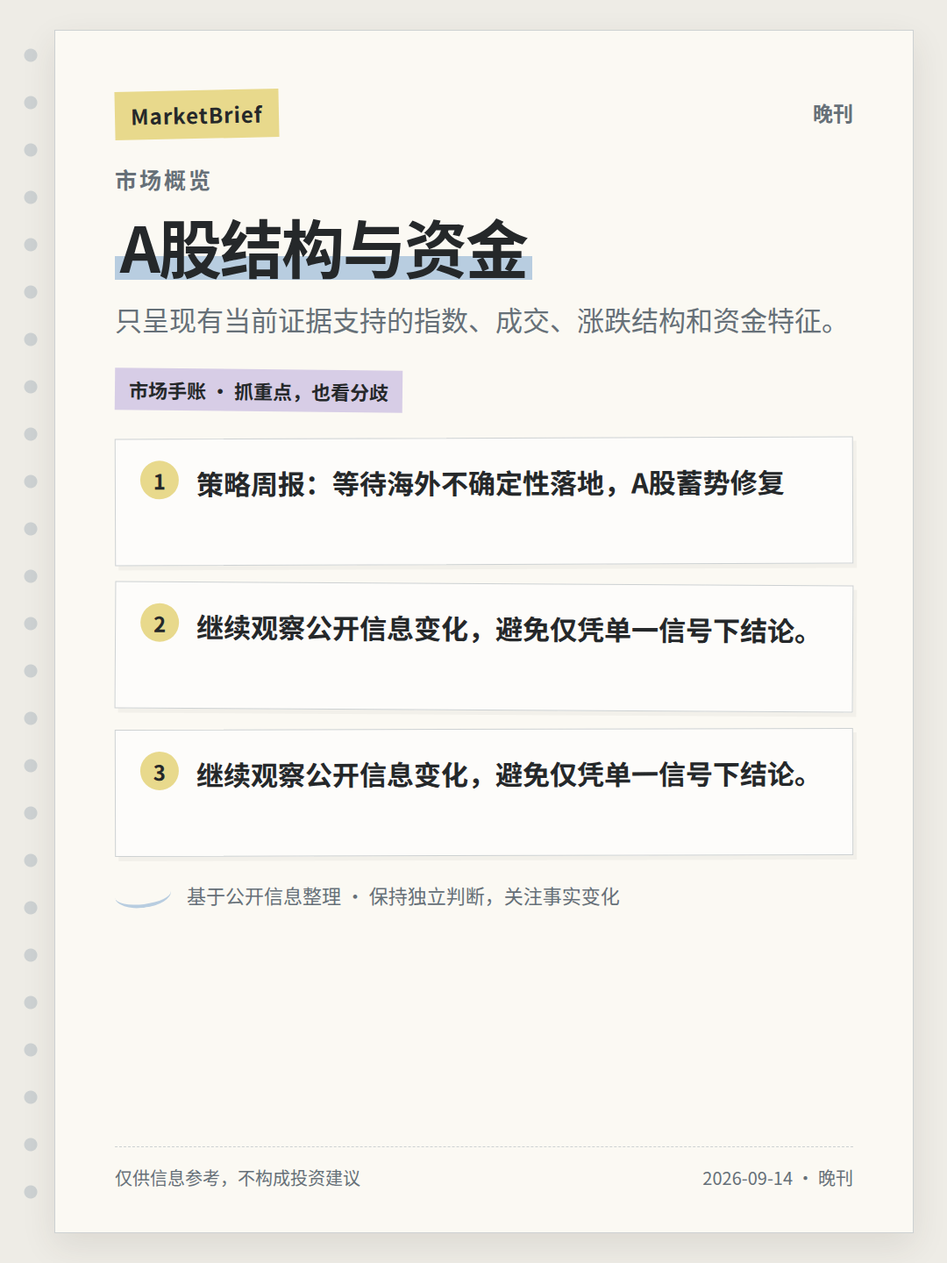
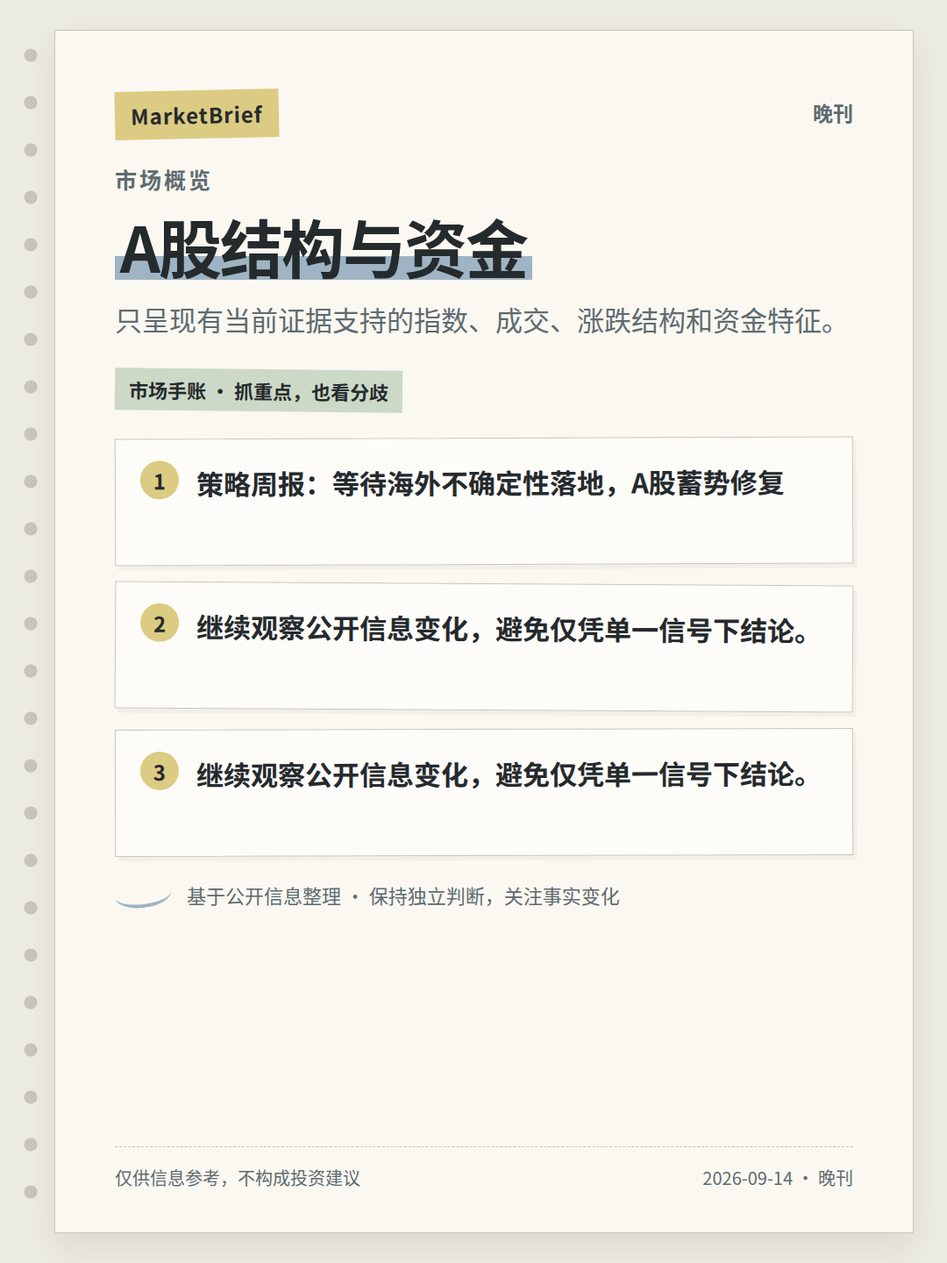
MarketBrief: publish official-source notebook edition

Changed region(s): [[0.1222, 0.2812, 0.4278, 0.3438], [0.1222, 0.1875, 0.5806, 0.2188]]

diff --git a/output/marketbrief/2026-09-14/pm/2026-09-14-pm-01.html b/output/marketbrief/2026-09-14/pm/2026-09-14-pm-01.html
@@ -1,33 +1,33 @@
 <!doctype html>
 <html lang="zh-CN"><head><meta charset="utf-8"><style>
-*{box-sizing:border-box}html,body{margin:0;width:1080px;height:1440px;background:#EEECE6;color:#25282A;font-family:'Noto Sans CJK SC','Microsoft YaHei',sans-serif}
-body:before{content:'';position:absolute;left:24px;top:36px;bottom:36px;width:22px;background:radial-gradient(circle,#CDD1D2 0 7px,transparent 8px) center top/22px 54px repeat-y}
-main{position:relative;margin:34px 38px 34px 62px;width:980px;height:1372px;padding:68px 68px 52px;background:#FBF9F3;border:1px solid #CDD1D2;box-shadow:0 14px 36px rgba(58,47,39,.10);overflow:hidden}
+*{box-sizing:border-box}html,body{margin:0;width:1080px;height:1440px;background:#ECEBE4;color:#252A2D;font-family:'Noto Sans CJK SC','Microsoft YaHei',sans-serif}
+body:before{content:'';position:absolute;left:24px;top:36px;bottom:36px;width:22px;background:radial-gradient(circle,#C8C6BC 0 7px,transparent 8px) center top/22px 54px repeat-y}
+main{position:relative;margin:34px 38px 34px 62px;width:980px;height:1372px;padding:68px 68px 52px;background:#FAF8F1;border:1px solid #C8C6BC;box-shadow:0 14px 36px rgba(58,47,39,.10);overflow:hidden}
 main:after{content:none}
 .top{position:relative;z-index:1;display:flex;justify-content:space-between;align-items:flex-start;margin-bottom:28px}
-.tape{display:inline-block;padding:10px 18px;background:#E8D98C;transform:rotate(-1.2deg);font-size:24px;font-weight:800;letter-spacing:1px}
-.edition{font-size:23px;font-weight:700;color:#667078;padding-top:8px}
-.kicker{position:relative;z-index:1;font-size:25px;font-weight:800;letter-spacing:3px;color:#667078;margin-bottom:18px}
+.tape{display:inline-block;padding:10px 18px;background:#DCCB82;transform:rotate(-1.2deg);font-size:24px;font-weight:800;letter-spacing:1px}
+.edition{font-size:23px;font-weight:700;color:#5E6B70;padding-top:8px}
+.kicker{position:relative;z-index:1;font-size:25px;font-weight:800;letter-spacing:3px;color:#5E6B70;margin-bottom:18px}
 h1{position:relative;z-index:1;font-size:72px;line-height:1.12;margin:0 0 20px;font-weight:900;letter-spacing:-2px}
-h1 span{background:linear-gradient(transparent 62%,#B8CDE0 62% 88%,transparent 88%);padding:0 .08em}
-.sub{position:relative;z-index:1;font-size:31px;line-height:1.5;color:#667078;margin-bottom:34px;max-width:850px}
-.ribbon{position:relative;z-index:1;display:inline-block;padding:8px 16px;margin-bottom:30px;background:#D7CDE6;font-size:22px;font-weight:700;transform:rotate(.6deg)}
+h1 span{background:linear-gradient(transparent 62%,#9EB4C4 62% 88%,transparent 88%);padding:0 .08em}
+.sub{position:relative;z-index:1;font-size:31px;line-height:1.5;color:#5E6B70;margin-bottom:34px;max-width:850px}
+.ribbon{position:relative;z-index:1;display:inline-block;padding:8px 16px;margin-bottom:30px;background:#CBD9C6;font-size:22px;font-weight:700;transform:rotate(.6deg)}
 .notes{position:relative;z-index:1;display:grid;gap:21px}
-.note{position:relative;min-height:145px;padding:26px 30px 24px 92px;background:rgba(255,255,255,.56);border:1px solid #CDD1D2;box-shadow:4px 5px 0 rgba(0,0,0,.035);transform:rotate(-.2deg)}
+.note{position:relative;min-height:145px;padding:26px 30px 24px 92px;background:rgba(255,255,255,.56);border:1px solid #C8C6BC;box-shadow:4px 5px 0 rgba(0,0,0,.035);transform:rotate(-.2deg)}
 .note:nth-child(2){transform:rotate(.35deg)}.note:nth-child(3){transform:rotate(-.15deg)}
-.note b{position:absolute;left:28px;top:24px;width:44px;height:44px;border-radius:50%;display:grid;place-items:center;background:#E8D98C;font-size:24px}
+.note b{position:absolute;left:28px;top:24px;width:44px;height:44px;border-radius:50%;display:grid;place-items:center;background:#DCCB82;font-size:24px}
 .note p{margin:0;font-size:31px;line-height:1.55;font-weight:650}
-.margin{position:relative;z-index:1;margin-top:28px;display:flex;gap:18px;align-items:center;color:#667078;font-size:22px}
-.sketch{width:64px;height:30px;border-bottom:4px solid #B8CDE0;border-radius:50%;transform:rotate(-7deg)}
-footer{position:absolute;z-index:1;left:68px;right:68px;bottom:48px;border-top:1px dashed #CDD1D2;padding-top:20px;display:flex;justify-content:space-between;gap:20px;color:#667078;font-size:20px}
+.margin{position:relative;z-index:1;margin-top:28px;display:flex;gap:18px;align-items:center;color:#5E6B70;font-size:22px}
+.sketch{width:64px;height:30px;border-bottom:4px solid #9EB4C4;border-radius:50%;transform:rotate(-7deg)}
+footer{position:absolute;z-index:1;left:68px;right:68px;bottom:48px;border-top:1px dashed #C8C6BC;padding-top:20px;display:flex;justify-content:space-between;gap:20px;color:#5E6B70;font-size:20px}
 </style></head>
 <body><main>
 <div class="top"><span class="tape">MarketBrief</span><span class="edition">晚刊</span></div>
 <div class="kicker">今日简报</div>
-<h1><span>下周美联储动向、地缘冲突推升油价成焦点</span></h1>
-<div class="sub">晚刊基于3份有效来源分析，当前重点为下周美联储动向、地缘冲突推升油价。仅保留时效合格的公开信息，事实、研究观点与市场情绪分开呈现。</div>
+<h1><span>下周美联储动向成为市场焦点</span></h1>
+<div class="sub">晚刊基于5份有效来源分析，当前重点为下周美联储动向。仅保留时效合格的公开信息，事实、研究观点与市场情绪分开呈现。</div>
 <div class="ribbon">市场手账 · 抓重点，也看分歧</div>
-<div class="notes"><section class="note"><b>1</b><p>晨会纪要</p></section><section class="note"><b>2</b><p>FICC周报：关注下周美联储动向</p></section><section class="note"><b>3</b><p>大周期行业周报（9月第2周）：地缘冲突推升油价</p></section></div>
+<div class="notes"><section class="note"><b>1</b><p>AI安全争议与Anthropic IPO：Anthropic寻求纳斯达克上市，Amodei呼吁AI减速，引发市场分歧；Cramer质疑减速宣言；华盛顿加速AI监管立法</p></section><section class="note"><b>2</b><p>美伊霍尔木兹海峡紧张与油价：霍尔木兹海峡船只遇袭，沙特关闭绕过海峡的关键管道，特朗普称或保留伊朗石油；油价上涨，油轮基金暴涨3600%</p></section><section class="note"><b>3</b><p>晨会纪要</p></section></div>
 <div class="margin"><span class="sketch"></span><span>基于公开信息整理 · 保持独立判断，关注事实变化</span></div>
 <footer><span>仅供信息参考，不构成投资建议</span><span>2026-09-14 · 晚刊</span></footer>
 </main></body></html>

diff --git a/output/marketbrief/2026-09-14/pm/2026-09-14-pm-06.html b/output/marketbrief/2026-09-14/pm/2026-09-14-pm-06.html
@@ -1,25 +1,25 @@
 <!doctype html>
 <html lang="zh-CN"><head><meta charset="utf-8"><style>
-*{box-sizing:border-box}html,body{margin:0;width:1080px;height:1440px;background:#EEECE6;color:#25282A;font-family:'Noto Sans CJK SC','Microsoft YaHei',sans-serif}
-body:before{content:'';position:absolute;left:24px;top:36px;bottom:36px;width:22px;background:radial-gradient(circle,#CDD1D2 0 7px,transparent 8px) center top/22px 54px repeat-y}
-main{position:relative;margin:34px 38px 34px 62px;width:980px;height:1372px;padding:68px 68px 52px;background:#FBF9F3;border:1px solid #CDD1D2;box-shadow:0 14px 36px rgba(58,47,39,.10);overflow:hidden}
+*{box-sizing:border-box}html,body{margin:0;width:1080px;height:1440px;background:#ECEBE4;color:#252A2D;font-family:'Noto Sans CJK SC','Microsoft YaHei',sans-serif}
+body:before{content:'';position:absolute;left:24px;top:36px;bottom:36px;width:22px;background:radial-gradient(circle,#C8C6BC 0 7px,transparent 8px) center top/22px 54px repeat-y}
+main{position:relative;margin:34px 38px 34px 62px;width:980px;height:1372px;padding:68px 68px 52px;background:#FAF8F1;border:1px solid #C8C6BC;box-shadow:0 14px 36px rgba(58,47,39,.10);overflow:hidden}
 main:after{content:none}
 .top{position:relative;z-index:1;display:flex;justify-content:space-between;align-items:flex-start;margin-bottom:28px}
-.tape{display:inline-block;padding:10px 18px;background:#E8D98C;transform:rotate(-1.2deg);font-size:24px;font-weight:800;letter-spacing:1px}
-.edition{font-size:23px;font-weight:700;color:#667078;padding-top:8px}
-.kicker{position:relative;z-index:1;font-size:25px;font-weight:800;letter-spacing:3px;color:#667078;margin-bottom:18px}
+.tape{display:inline-block;padding:10px 18px;background:#DCCB82;transform:rotate(-1.2deg);font-size:24px;font-weight:800;letter-spacing:1px}
+.edition{font-size:23px;font-weight:700;color:#5E6B70;padding-top:8px}
+.kicker{position:relative;z-index:1;font-size:25px;font-weight:800;letter-spacing:3px;color:#5E6B70;margin-bottom:18px}
 h1{position:relative;z-index:1;font-size:72px;line-height:1.12;margin:0 0 20px;font-weight:900;letter-spacing:-2px}
-h1 span{background:linear-gradient(transparent 62%,#B8CDE0 62% 88%,transparent 88%);padding:0 .08em}
-.sub{position:relative;z-index:1;font-size:31px;line-height:1.5;color:#667078;margin-bottom:34px;max-width:850px}
-.ribbon{position:relative;z-index:1;display:inline-block;padding:8px 16px;margin-bottom:30px;background:#D7CDE6;font-size:22px;font-weight:700;transform:rotate(.6deg)}
+h1 span{background:linear-gradient(transparent 62%,#9EB4C4 62% 88%,transparent 88%);padding:0 .08em}
+.sub{position:relative;z-index:1;font-size:31px;line-height:1.5;color:#5E6B70;margin-bottom:34px;max-width:850px}
+.ribbon{position:relative;z-index:1;display:inline-block;padding:8px 16px;margin-bottom:30px;background:#CBD9C6;font-size:22px;font-weight:700;transform:rotate(.6deg)}
 .notes{position:relative;z-index:1;display:grid;gap:21px}
-.note{position:relative;min-height:145px;padding:26px 30px 24px 92px;background:rgba(255,255,255,.56);border:1px solid #CDD1D2;box-shadow:4px 5px 0 rgba(0,0,0,.035);transform:rotate(-.2deg)}
+.note{position:relative;min-height:145px;padding:26px 30px 24px 92px;background:rgba(255,255,255,.56);border:1px solid #C8C6BC;box-shadow:4px 5px 0 rgba(0,0,0,.035);transform:rotate(-.2deg)}
 .note:nth-child(2){transform:rotate(.35deg)}.note:nth-child(3){transform:rotate(-.15deg)}
-.note b{position:absolute;left:28px;top:24px;width:44px;height:44px;border-radius:50%;display:grid;place-items:center;background:#E8D98C;font-size:24px}
+.note b{position:absolute;left:28px;top:24px;width:44px;height:44px;border-radius:50%;display:grid;place-items:center;background:#DCCB82;font-size:24px}
 .note p{margin:0;font-size:31px;line-height:1.55;font-weight:650}
-.margin{position:relative;z-index:1;margin-top:28px;display:flex;gap:18px;align-items:center;color:#667078;font-size:22px}
-.sketch{width:64px;height:30px;border-bottom:4px solid #B8CDE0;border-radius:50%;transform:rotate(-7deg)}
-footer{position:absolute;z-index:1;left:68px;right:68px;bottom:48px;border-top:1px dashed #CDD1D2;padding-top:20px;display:flex;justify-content:space-between;gap:20px;color:#667078;font-size:20px}
+.margin{position:relative;z-index:1;margin-top:28px;display:flex;gap:18px;align-items:center;color:#5E6B70;font-size:22px}
+.sketch{width:64px;height:30px;border-bottom:4px solid #9EB4C4;border-radius:50%;transform:rotate(-7deg)}
+footer{position:absolute;z-index:1;left:68px;right:68px;bottom:48px;border-top:1px dashed #C8C6BC;padding-top:20px;display:flex;justify-content:space-between;gap:20px;color:#5E6B70;font-size:20px}
 </style></head>
 <body><main>
 <div class="top"><span class="tape">MarketBrief</span><span class="edition">晚刊</span></div>
@@ -27,7 +27,7 @@ footer{position:absolute;z-index:1;left:68px;right:68px;bottom:48px;border-top:1
 <h1><span>后续变量仍需确认</span></h1>
 <div class="sub">只保留来源自身限制和当前证据中的风险项，不额外推演。</div>
 <div class="ribbon">市场手账 · 抓重点，也看分歧</div>
-<div class="notes"><section class="note"><b>1</b><p>大周期行业周报（9月第2周）：地缘冲突推升油价</p></section><section class="note"><b>2</b><p>策略周报：等待海外不确定性落地，A股蓄势修复</p></section><section class="note"><b>3</b><p>继续观察公开信息变化，避免仅凭单一信号下结论。</p></section></div>
+<div class="notes"><section class="note"><b>1</b><p>页面为CNBC全球频道导航页，含部分无明确日期的滚动条目（如UBS CEO、瑞典选举等），已排除未纳入topics</p></section><section class="note"><b>2</b><p>来源类型为research，但页面实质为新闻聚合导航页，非深度研究报告，信号强度有限</p></section><section class="note"><b>3</b><p>部分条目标注&#x27;36 min ago&#x27;与&#x27;2 Hours Ago&#x27;存在时间戳不一致，以页面最新时间为准</p></section></div>
 <div class="margin"><span class="sketch"></span><span>基于公开信息整理 · 保持独立判断，关注事实变化</span></div>
 <footer><span>仅供信息参考，不构成投资建议</span><span>2026-09-14 · 晚刊</span></footer>
 </main></body></html>

diff --git a/output/marketbrief/2026-09-14/pm/2026-09-14-pm-05.html b/output/marketbrief/2026-09-14/pm/2026-09-14-pm-05.html
@@ -1,25 +1,25 @@
 <!doctype html>
 <html lang="zh-CN"><head><meta charset="utf-8"><style>
-*{box-sizing:border-box}html,body{margin:0;width:1080px;height:1440px;background:#EEECE6;color:#25282A;font-family:'Noto Sans CJK SC','Microsoft YaHei',sans-serif}
-body:before{content:'';position:absolute;left:24px;top:36px;bottom:36px;width:22px;background:radial-gradient(circle,#CDD1D2 0 7px,transparent 8px) center top/22px 54px repeat-y}
-main{position:relative;margin:34px 38px 34px 62px;width:980px;height:1372px;padding:68px 68px 52px;background:#FBF9F3;border:1px solid #CDD1D2;box-shadow:0 14px 36px rgba(58,47,39,.10);overflow:hidden}
+*{box-sizing:border-box}html,body{margin:0;width:1080px;height:1440px;background:#ECEBE4;color:#252A2D;font-family:'Noto Sans CJK SC','Microsoft YaHei',sans-serif}
+body:before{content:'';position:absolute;left:24px;top:36px;bottom:36px;width:22px;background:radial-gradient(circle,#C8C6BC 0 7px,transparent 8px) center top/22px 54px repeat-y}
+main{position:relative;margin:34px 38px 34px 62px;width:980px;height:1372px;padding:68px 68px 52px;background:#FAF8F1;border:1px solid #C8C6BC;box-shadow:0 14px 36px rgba(58,47,39,.10);overflow:hidden}
 main:after{content:none}
 .top{position:relative;z-index:1;display:flex;justify-content:space-between;align-items:flex-start;margin-bottom:28px}
-.tape{display:inline-block;padding:10px 18px;background:#E8D98C;transform:rotate(-1.2deg);font-size:24px;font-weight:800;letter-spacing:1px}
-.edition{font-size:23px;font-weight:700;color:#667078;padding-top:8px}
-.kicker{position:relative;z-index:1;font-size:25px;font-weight:800;letter-spacing:3px;color:#667078;margin-bottom:18px}
+.tape{display:inline-block;padding:10px 18px;background:#DCCB82;transform:rotate(-1.2deg);font-size:24px;font-weight:800;letter-spacing:1px}
+.edition{font-size:23px;font-weight:700;color:#5E6B70;padding-top:8px}
+.kicker{position:relative;z-index:1;font-size:25px;font-weight:800;letter-spacing:3px;color:#5E6B70;margin-bottom:18px}
 h1{position:relative;z-index:1;font-size:72px;line-height:1.12;margin:0 0 20px;font-weight:900;letter-spacing:-2px}
-h1 span{background:linear-gradient(transparent 62%,#B8CDE0 62% 88%,transparent 88%);padding:0 .08em}
-.sub{position:relative;z-index:1;font-size:31px;line-height:1.5;color:#667078;margin-bottom:34px;max-width:850px}
-.ribbon{position:relative;z-index:1;display:inline-block;padding:8px 16px;margin-bottom:30px;background:#D7CDE6;font-size:22px;font-weight:700;transform:rotate(.6deg)}
+h1 span{background:linear-gradient(transparent 62%,#9EB4C4 62% 88%,transparent 88%);padding:0 .08em}
+.sub{position:relative;z-index:1;font-size:31px;line-height:1.5;color:#5E6B70;margin-bottom:34px;max-width:850px}
+.ribbon{position:relative;z-index:1;display:inline-block;padding:8px 16px;margin-bottom:30px;background:#CBD9C6;font-size:22px;font-weight:700;transform:rotate(.6deg)}
 .notes{position:relative;z-index:1;display:grid;gap:21px}
-.note{position:relative;min-height:145px;padding:26px 30px 24px 92px;background:rgba(255,255,255,.56);border:1px solid #CDD1D2;box-shadow:4px 5px 0 rgba(0,0,0,.035);transform:rotate(-.2deg)}
+.note{position:relative;min-height:145px;padding:26px 30px 24px 92px;background:rgba(255,255,255,.56);border:1px solid #C8C6BC;box-shadow:4px 5px 0 rgba(0,0,0,.035);transform:rotate(-.2deg)}
 .note:nth-child(2){transform:rotate(.35deg)}.note:nth-child(3){transform:rotate(-.15deg)}
-.note b{position:absolute;left:28px;top:24px;width:44px;height:44px;border-radius:50%;display:grid;place-items:center;background:#E8D98C;font-size:24px}
+.note b{position:absolute;left:28px;top:24px;width:44px;height:44px;border-radius:50%;display:grid;place-items:center;background:#DCCB82;font-size:24px}
 .note p{margin:0;font-size:31px;line-height:1.55;font-weight:650}
-.margin{position:relative;z-index:1;margin-top:28px;display:flex;gap:18px;align-items:center;color:#667078;font-size:22px}
-.sketch{width:64px;height:30px;border-bottom:4px solid #B8CDE0;border-radius:50%;transform:rotate(-7deg)}
-footer{position:absolute;z-index:1;left:68px;right:68px;bottom:48px;border-top:1px dashed #CDD1D2;padding-top:20px;display:flex;justify-content:space-between;gap:20px;color:#667078;font-size:20px}
+.margin{position:relative;z-index:1;margin-top:28px;display:flex;gap:18px;align-items:center;color:#5E6B70;font-size:22px}
+.sketch{width:64px;height:30px;border-bottom:4px solid #9EB4C4;border-radius:50%;transform:rotate(-7deg)}
+footer{position:absolute;z-index:1;left:68px;right:68px;bottom:48px;border-top:1px dashed #C8C6BC;padding-top:20px;display:flex;justify-content:space-between;gap:20px;color:#5E6B70;font-size:20px}
 </style></head>
 <body><main>
 <div class="top"><span class="tape">MarketBrief</span><span class="edition">晚刊</span></div>
@@ -27,7 +27,7 @@ footer{position:absolute;z-index:1;left:68px;right:68px;bottom:48px;border-top:1
 <h1><span>事实、观点与情绪分开看</span></h1>
 <div class="sub">先看已确认事实，再看研究判断和市场情绪是否一致。</div>
 <div class="ribbon">市场手账 · 抓重点，也看分歧</div>
-<div class="notes"><section class="note"><b>1</b><p>关于刊发境外上市外资股（H 股）发行聆讯后资料集的公告</p></section><section class="note"><b>2</b><p>晨会纪要</p></section><section class="note"><b>3</b><p>继续观察公开信息变化，避免仅凭单一信号下结论。</p></section></div>
+<div class="notes"><section class="note"><b>1</b><p>美国消费者价格指数(CPI)：BLS于09/11发布最新CPI数据，为窗口内最新通胀指标</p></section><section class="note"><b>2</b><p>AI安全争议与Anthropic IPO：Anthropic寻求纳斯达克上市，Amodei呼吁AI减速，引发市场分歧；Cramer质疑减速宣言；华盛顿加速AI监管立法</p></section><section class="note"><b>3</b><p>继续观察公开信息变化，避免仅凭单一信号下结论。</p></section></div>
 <div class="margin"><span class="sketch"></span><span>基于公开信息整理 · 保持独立判断，关注事实变化</span></div>
 <footer><span>仅供信息参考，不构成投资建议</span><span>2026-09-14 · 晚刊</span></footer>
 </main></body></html>

diff --git a/output/marketbrief/2026-09-14/pm/2026-09-14-pm-02.html b/output/marketbrief/2026-09-14/pm/2026-09-14-pm-02.html
@@ -1,25 +1,25 @@
 <!doctype html>
 <html lang="zh-CN"><head><meta charset="utf-8"><style>
-*{box-sizing:border-box}html,body{margin:0;width:1080px;height:1440px;background:#EEECE6;color:#25282A;font-family:'Noto Sans CJK SC','Microsoft YaHei',sans-serif}
-body:before{content:'';position:absolute;left:24px;top:36px;bottom:36px;width:22px;background:radial-gradient(circle,#CDD1D2 0 7px,transparent 8px) center top/22px 54px repeat-y}
-main{position:relative;margin:34px 38px 34px 62px;width:980px;height:1372px;padding:68px 68px 52px;background:#FBF9F3;border:1px solid #CDD1D2;box-shadow:0 14px 36px rgba(58,47,39,.10);overflow:hidden}
+*{box-sizing:border-box}html,body{margin:0;width:1080px;height:1440px;background:#ECEBE4;color:#252A2D;font-family:'Noto Sans CJK SC','Microsoft YaHei',sans-serif}
+body:before{content:'';position:absolute;left:24px;top:36px;bottom:36px;width:22px;background:radial-gradient(circle,#C8C6BC 0 7px,transparent 8px) center top/22px 54px repeat-y}
+main{position:relative;margin:34px 38px 34px 62px;width:980px;height:1372px;padding:68px 68px 52px;background:#FAF8F1;border:1px solid #C8C6BC;box-shadow:0 14px 36px rgba(58,47,39,.10);overflow:hidden}
 main:after{content:none}
 .top{position:relative;z-index:1;display:flex;justify-content:space-between;align-items:flex-start;margin-bottom:28px}
-.tape{display:inline-block;padding:10px 18px;background:#E8D98C;transform:rotate(-1.2deg);font-size:24px;font-weight:800;letter-spacing:1px}
-.edition{font-size:23px;font-weight:700;color:#667078;padding-top:8px}
-.kicker{position:relative;z-index:1;font-size:25px;font-weight:800;letter-spacing:3px;color:#667078;margin-bottom:18px}
+.tape{display:inline-block;padding:10px 18px;background:#DCCB82;transform:rotate(-1.2deg);font-size:24px;font-weight:800;letter-spacing:1px}
+.edition{font-size:23px;font-weight:700;color:#5E6B70;padding-top:8px}
+.kicker{position:relative;z-index:1;font-size:25px;font-weight:800;letter-spacing:3px;color:#5E6B70;margin-bottom:18px}
 h1{position:relative;z-index:1;font-size:72px;line-height:1.12;margin:0 0 20px;font-weight:900;letter-spacing:-2px}
-h1 span{background:linear-gradient(transparent 62%,#B8CDE0 62% 88%,transparent 88%);padding:0 .08em}
-.sub{position:relative;z-index:1;font-size:31px;line-height:1.5;color:#667078;margin-bottom:34px;max-width:850px}
-.ribbon{position:relative;z-index:1;display:inline-block;padding:8px 16px;margin-bottom:30px;background:#D7CDE6;font-size:22px;font-weight:700;transform:rotate(.6deg)}
+h1 span{background:linear-gradient(transparent 62%,#9EB4C4 62% 88%,transparent 88%);padding:0 .08em}
+.sub{position:relative;z-index:1;font-size:31px;line-height:1.5;color:#5E6B70;margin-bottom:34px;max-width:850px}
+.ribbon{position:relative;z-index:1;display:inline-block;padding:8px 16px;margin-bottom:30px;background:#CBD9C6;font-size:22px;font-weight:700;transform:rotate(.6deg)}
 .notes{position:relative;z-index:1;display:grid;gap:21px}
-.note{position:relative;min-height:145px;padding:26px 30px 24px 92px;background:rgba(255,255,255,.56);border:1px solid #CDD1D2;box-shadow:4px 5px 0 rgba(0,0,0,.035);transform:rotate(-.2deg)}
+.note{position:relative;min-height:145px;padding:26px 30px 24px 92px;background:rgba(255,255,255,.56);border:1px solid #C8C6BC;box-shadow:4px 5px 0 rgba(0,0,0,.035);transform:rotate(-.2deg)}
 .note:nth-child(2){transform:rotate(.35deg)}.note:nth-child(3){transform:rotate(-.15deg)}
-.note b{position:absolute;left:28px;top:24px;width:44px;height:44px;border-radius:50%;display:grid;place-items:center;background:#E8D98C;font-size:24px}
+.note b{position:absolute;left:28px;top:24px;width:44px;height:44px;border-radius:50%;display:grid;place-items:center;background:#DCCB82;font-size:24px}
 .note p{margin:0;font-size:31px;line-height:1.55;font-weight:650}
-.margin{position:relative;z-index:1;margin-top:28px;display:flex;gap:18px;align-items:center;color:#667078;font-size:22px}
-.sketch{width:64px;height:30px;border-bottom:4px solid #B8CDE0;border-radius:50%;transform:rotate(-7deg)}
-footer{position:absolute;z-index:1;left:68px;right:68px;bottom:48px;border-top:1px dashed #CDD1D2;padding-top:20px;display:flex;justify-content:space-between;gap:20px;color:#667078;font-size:20px}
+.margin{position:relative;z-index:1;margin-top:28px;display:flex;gap:18px;align-items:center;color:#5E6B70;font-size:22px}
+.sketch{width:64px;height:30px;border-bottom:4px solid #9EB4C4;border-radius:50%;transform:rotate(-7deg)}
+footer{position:absolute;z-index:1;left:68px;right:68px;bottom:48px;border-top:1px dashed #C8C6BC;padding-top:20px;display:flex;justify-content:space-between;gap:20px;color:#5E6B70;font-size:20px}
 </style></head>
 <body><main>
 <div class="top"><span class="tape">MarketBrief</span><span class="edition">晚刊</span></div>
@@ -27,7 +27,7 @@ footer{position:absolute;z-index:1;left:68px;right:68px;bottom:48px;border-top:1
 <h1><span>今晚外部变量</span></h1>
 <div class="sub">只保留当前时效窗口内、已有公开信息支持的海外市场与宏观线索。</div>
 <div class="ribbon">市场手账 · 抓重点，也看分歧</div>
-<div class="notes"><section class="note"><b>1</b><p>FICC周报：关注下周美联储动向</p></section><section class="note"><b>2</b><p>大周期行业周报（9月第2周）：地缘冲突推升油价</p></section><section class="note"><b>3</b><p>8月美国核心CPI环比超预期，9月美联储会议或加息25个基点</p></section></div>
+<div class="notes"><section class="note"><b>1</b><p>美国消费者价格指数(CPI)：BLS于09/11发布最新CPI数据，为窗口内最新通胀指标</p></section><section class="note"><b>2</b><p>美国生产者价格指数(PPI)：BLS于09/10发布最新PPI数据，反映上游成本压力</p></section><section class="note"><b>3</b><p>美国实际收入：BLS于09/11发布实际收入数据，反映工资增长与通胀对比</p></section></div>
 <div class="margin"><span class="sketch"></span><span>基于公开信息整理 · 保持独立判断，关注事实变化</span></div>
 <footer><span>仅供信息参考，不构成投资建议</span><span>2026-09-14 · 晚刊</span></footer>
 </main></body></html>

diff --git a/output/marketbrief/2026-09-14/pm/2026-09-14-pm-04.html b/output/marketbrief/2026-09-14/pm/2026-09-14-pm-04.html
@@ -1,25 +1,25 @@
 <!doctype html>
 <html lang="zh-CN"><head><meta charset="utf-8"><style>
-*{box-sizing:border-box}html,body{margin:0;width:1080px;height:1440px;background:#EEECE6;color:#25282A;font-family:'Noto Sans CJK SC','Microsoft YaHei',sans-serif}
-body:before{content:'';position:absolute;left:24px;top:36px;bottom:36px;width:22px;background:radial-gradient(circle,#CDD1D2 0 7px,transparent 8px) center top/22px 54px repeat-y}
-main{position:relative;margin:34px 38px 34px 62px;width:980px;height:1372px;padding:68px 68px 52px;background:#FBF9F3;border:1px solid #CDD1D2;box-shadow:0 14px 36px rgba(58,47,39,.10);overflow:hidden}
+*{box-sizing:border-box}html,body{margin:0;width:1080px;height:1440px;background:#ECEBE4;color:#252A2D;font-family:'Noto Sans CJK SC','Microsoft YaHei',sans-serif}
+body:before{content:'';position:absolute;left:24px;top:36px;bottom:36px;width:22px;background:radial-gradient(circle,#C8C6BC 0 7px,transparent 8px) center top/22px 54px repeat-y}
+main{position:relative;margin:34px 38px 34px 62px;width:980px;height:1372px;padding:68px 68px 52px;background:#FAF8F1;border:1px solid #C8C6BC;box-shadow:0 14px 36px rgba(58,47,39,.10);overflow:hidden}
 main:after{content:none}
 .top{position:relative;z-index:1;display:flex;justify-content:space-between;align-items:flex-start;margin-bottom:28px}
-.tape{display:inline-block;padding:10px 18px;background:#E8D98C;transform:rotate(-1.2deg);font-size:24px;font-weight:800;letter-spacing:1px}
-.edition{font-size:23px;font-weight:700;color:#667078;padding-top:8px}
-.kicker{position:relative;z-index:1;font-size:25px;font-weight:800;letter-spacing:3px;color:#667078;margin-bottom:18px}
+.tape{display:inline-block;padding:10px 18px;background:#DCCB82;transform:rotate(-1.2deg);font-size:24px;font-weight:800;letter-spacing:1px}
+.edition{font-size:23px;font-weight:700;color:#5E6B70;padding-top:8px}
+.kicker{position:relative;z-index:1;font-size:25px;font-weight:800;letter-spacing:3px;color:#5E6B70;margin-bottom:18px}
 h1{position:relative;z-index:1;font-size:72px;line-height:1.12;margin:0 0 20px;font-weight:900;letter-spacing:-2px}
-h1 span{background:linear-gradient(transparent 62%,#B8CDE0 62% 88%,transparent 88%);padding:0 .08em}
-.sub{position:relative;z-index:1;font-size:31px;line-height:1.5;color:#667078;margin-bottom:34px;max-width:850px}
-.ribbon{position:relative;z-index:1;display:inline-block;padding:8px 16px;margin-bottom:30px;background:#D7CDE6;font-size:22px;font-weight:700;transform:rotate(.6deg)}
+h1 span{background:linear-gradient(transparent 62%,#9EB4C4 62% 88%,transparent 88%);padding:0 .08em}
+.sub{position:relative;z-index:1;font-size:31px;line-height:1.5;color:#5E6B70;margin-bottom:34px;max-width:850px}
+.ribbon{position:relative;z-index:1;display:inline-block;padding:8px 16px;margin-bottom:30px;background:#CBD9C6;font-size:22px;font-weight:700;transform:rotate(.6deg)}
 .notes{position:relative;z-index:1;display:grid;gap:21px}
-.note{position:relative;min-height:145px;padding:26px 30px 24px 92px;background:rgba(255,255,255,.56);border:1px solid #CDD1D2;box-shadow:4px 5px 0 rgba(0,0,0,.035);transform:rotate(-.2deg)}
+.note{position:relative;min-height:145px;padding:26px 30px 24px 92px;background:rgba(255,255,255,.56);border:1px solid #C8C6BC;box-shadow:4px 5px 0 rgba(0,0,0,.035);transform:rotate(-.2deg)}
 .note:nth-child(2){transform:rotate(.35deg)}.note:nth-child(3){transform:rotate(-.15deg)}
-.note b{position:absolute;left:28px;top:24px;width:44px;height:44px;border-radius:50%;display:grid;place-items:center;background:#E8D98C;font-size:24px}
+.note b{position:absolute;left:28px;top:24px;width:44px;height:44px;border-radius:50%;display:grid;place-items:center;background:#DCCB82;font-size:24px}
 .note p{margin:0;font-size:31px;line-height:1.55;font-weight:650}
-.margin{position:relative;z-index:1;margin-top:28px;display:flex;gap:18px;align-items:center;color:#667078;font-size:22px}
-.sketch{width:64px;height:30px;border-bottom:4px solid #B8CDE0;border-radius:50%;transform:rotate(-7deg)}
-footer{position:absolute;z-index:1;left:68px;right:68px;bottom:48px;border-top:1px dashed #CDD1D2;padding-top:20px;display:flex;justify-content:space-between;gap:20px;color:#667078;font-size:20px}
+.margin{position:relative;z-index:1;margin-top:28px;display:flex;gap:18px;align-items:center;color:#5E6B70;font-size:22px}
+.sketch{width:64px;height:30px;border-bottom:4px solid #9EB4C4;border-radius:50%;transform:rotate(-7deg)}
+footer{position:absolute;z-index:1;left:68px;right:68px;bottom:48px;border-top:1px dashed #C8C6BC;padding-top:20px;display:flex;justify-content:space-between;gap:20px;color:#5E6B70;font-size:20px}
 </style></head>
 <body><main>
 <div class="top"><span class="tape">MarketBrief</span><span class="edition">晚刊</span></div>
@@ -27,7 +27,7 @@ footer{position:absolute;z-index:1;left:68px;right:68px;bottom:48px;border-top:1
 <h1><span>主线与事件交叉验证</span></h1>
 <div class="sub">优先采用官方与研究信息，社区热度只作为辅助信号。</div>
 <div class="ribbon">市场手账 · 抓重点，也看分歧</div>
-<div class="notes"><section class="note"><b>1</b><p>关于刊发境外上市外资股（H 股）发行聆讯后资料集的公告</p></section><section class="note"><b>2</b><p>关于昌红转债回售的第十二次提示性公告</p></section><section class="note"><b>3</b><p>关于聘任公司副总经理的公告</p></section></div>
+<div class="notes"><section class="note"><b>1</b><p>雇主员工成本(ECI)：BLS于09/09发布雇主员工成本数据，含工资与福利趋势</p></section><section class="note"><b>2</b><p>关于刊发境外上市外资股（H 股）发行聆讯后资料集的公告</p></section><section class="note"><b>3</b><p>关于昌红转债回售的第十二次提示性公告</p></section></div>
 <div class="margin"><span class="sketch"></span><span>基于公开信息整理 · 保持独立判断，关注事实变化</span></div>
 <footer><span>仅供信息参考，不构成投资建议</span><span>2026-09-14 · 晚刊</span></footer>
 </main></body></html>

diff --git a/output/marketbrief/2026-09-14/pm/2026-09-14-pm-03.html b/output/marketbrief/2026-09-14/pm/2026-09-14-pm-03.html
@@ -1,25 +1,25 @@
 <!doctype html>
 <html lang="zh-CN"><head><meta charset="utf-8"><style>
-*{box-sizing:border-box}html,body{margin:0;width:1080px;height:1440px;background:#EEECE6;color:#25282A;font-family:'Noto Sans CJK SC','Microsoft YaHei',sans-serif}
-body:before{content:'';position:absolute;left:24px;top:36px;bottom:36px;width:22px;background:radial-gradient(circle,#CDD1D2 0 7px,transparent 8px) center top/22px 54px repeat-y}
-main{position:relative;margin:34px 38px 34px 62px;width:980px;height:1372px;padding:68px 68px 52px;background:#FBF9F3;border:1px solid #CDD1D2;box-shadow:0 14px 36px rgba(58,47,39,.10);overflow:hidden}
+*{box-sizing:border-box}html,body{margin:0;width:1080px;height:1440px;background:#ECEBE4;color:#252A2D;font-family:'Noto Sans CJK SC','Microsoft YaHei',sans-serif}
+body:before{content:'';position:absolute;left:24px;top:36px;bottom:36px;width:22px;background:radial-gradient(circle,#C8C6BC 0 7px,transparent 8px) center top/22px 54px repeat-y}
+main{position:relative;margin:34px 38px 34px 62px;width:980px;height:1372px;padding:68px 68px 52px;background:#FAF8F1;border:1px solid #C8C6BC;box-shadow:0 14px 36px rgba(58,47,39,.10);overflow:hidden}
 main:after{content:none}
 .top{position:relative;z-index:1;display:flex;justify-content:space-between;align-items:flex-start;margin-bottom:28px}
-.tape{display:inline-block;padding:10px 18px;background:#E8D98C;transform:rotate(-1.2deg);font-size:24px;font-weight:800;letter-spacing:1px}
-.edition{font-size:23px;font-weight:700;color:#667078;padding-top:8px}
-.kicker{position:relative;z-index:1;font-size:25px;font-weight:800;letter-spacing:3px;color:#667078;margin-bottom:18px}
+.tape{display:inline-block;padding:10px 18px;background:#DCCB82;transform:rotate(-1.2deg);font-size:24px;font-weight:800;letter-spacing:1px}
+.edition{font-size:23px;font-weight:700;color:#5E6B70;padding-top:8px}
+.kicker{position:relative;z-index:1;font-size:25px;font-weight:800;letter-spacing:3px;color:#5E6B70;margin-bottom:18px}
 h1{position:relative;z-index:1;font-size:72px;line-height:1.12;margin:0 0 20px;font-weight:900;letter-spacing:-2px}
-h1 span{background:linear-gradient(transparent 62%,#B8CDE0 62% 88%,transparent 88%);padding:0 .08em}
-.sub{position:relative;z-index:1;font-size:31px;line-height:1.5;color:#667078;margin-bottom:34px;max-width:850px}
-.ribbon{position:relative;z-index:1;display:inline-block;padding:8px 16px;margin-bottom:30px;background:#D7CDE6;font-size:22px;font-weight:700;transform:rotate(.6deg)}
+h1 span{background:linear-gradient(transparent 62%,#9EB4C4 62% 88%,transparent 88%);padding:0 .08em}
+.sub{position:relative;z-index:1;font-size:31px;line-height:1.5;color:#5E6B70;margin-bottom:34px;max-width:850px}
+.ribbon{position:relative;z-index:1;display:inline-block;padding:8px 16px;margin-bottom:30px;background:#CBD9C6;font-size:22px;font-weight:700;transform:rotate(.6deg)}
 .notes{position:relative;z-index:1;display:grid;gap:21px}
-.note{position:relative;min-height:145px;padding:26px 30px 24px 92px;background:rgba(255,255,255,.56);border:1px solid #CDD1D2;box-shadow:4px 5px 0 rgba(0,0,0,.035);transform:rotate(-.2deg)}
+.note{position:relative;min-height:145px;padding:26px 30px 24px 92px;background:rgba(255,255,255,.56);border:1px solid #C8C6BC;box-shadow:4px 5px 0 rgba(0,0,0,.035);transform:rotate(-.2deg)}
 .note:nth-child(2){transform:rotate(.35deg)}.note:nth-child(3){transform:rotate(-.15deg)}
-.note b{position:absolute;left:28px;top:24px;width:44px;height:44px;border-radius:50%;display:grid;place-items:center;background:#E8D98C;font-size:24px}
+.note b{position:absolute;left:28px;top:24px;width:44px;height:44px;border-radius:50%;display:grid;place-items:center;background:#DCCB82;font-size:24px}
 .note p{margin:0;font-size:31px;line-height:1.55;font-weight:650}
-.margin{position:relative;z-index:1;margin-top:28px;display:flex;gap:18px;align-items:center;color:#667078;font-size:22px}
-.sketch{width:64px;height:30px;border-bottom:4px solid #B8CDE0;border-radius:50%;transform:rotate(-7deg)}
-footer{position:absolute;z-index:1;left:68px;right:68px;bottom:48px;border-top:1px dashed #CDD1D2;padding-top:20px;display:flex;justify-content:space-between;gap:20px;color:#667078;font-size:20px}
+.margin{position:relative;z-index:1;margin-top:28px;display:flex;gap:18px;align-items:center;color:#5E6B70;font-size:22px}
+.sketch{width:64px;height:30px;border-bottom:4px solid #9EB4C4;border-radius:50%;transform:rotate(-7deg)}
+footer{position:absolute;z-index:1;left:68px;right:68px;bottom:48px;border-top:1px dashed #C8C6BC;padding-top:20px;display:flex;justify-content:space-between;gap:20px;color:#5E6B70;font-size:20px}
 </style></head>
 <body><main>
 <div class="top"><span class="tape">MarketBrief</span><span class="edition">晚刊</span></div>

diff --git a/output/marketbrief/2026-09-14/pm/brief.md b/output/marketbrief/2026-09-14/pm/brief.md
@@ -1,14 +1,14 @@
-# 下周美联储动向、地缘冲突推升油价成焦点
+# 下周美联储动向成为市场焦点
 
-> 晚刊基于3份有效来源分析，当前重点为下周美联储动向、地缘冲突推升油价。仅保留时效合格的公开信息，事实、研究观点与市场情绪分开呈现。
+> 晚刊基于5份有效来源分析，当前重点为下周美联储动向。仅保留时效合格的公开信息，事实、研究观点与市场情绪分开呈现。
 
 ## 今晚外部变量
 
 只保留当前时效窗口内、已有公开信息支持的海外市场与宏观线索。
 
-- FICC周报：关注下周美联储动向
-- 大周期行业周报（9月第2周）：地缘冲突推升油价
-- 8月美国核心CPI环比超预期，9月美联储会议或加息25个基点
+- 美国消费者价格指数(CPI)：BLS于09/11发布最新CPI数据，为窗口内最新通胀指标
+- 美国生产者价格指数(PPI)：BLS于09/10发布最新PPI数据，反映上游成本压力
+- 美国实际收入：BLS于09/11发布实际收入数据，反映工资增长与通胀对比
 
 ## A股结构与资金
 
@@ -20,23 +20,24 @@
 
 优先采用官方与研究信息，社区热度只作为辅助信号。
 
+- 雇主员工成本(ECI)：BLS于09/09发布雇主员工成本数据，含工资与福利趋势
 - 关于刊发境外上市外资股（H 股）发行聆讯后资料集的公告
 - 关于昌红转债回售的第十二次提示性公告
-- 关于聘任公司副总经理的公告
 
 ## 事实、观点与情绪分开看
 
 先看已确认事实，再看研究判断和市场情绪是否一致。
 
-- 关于刊发境外上市外资股（H 股）发行聆讯后资料集的公告
-- 晨会纪要
+- 美国消费者价格指数(CPI)：BLS于09/11发布最新CPI数据，为窗口内最新通胀指标
+- AI安全争议与Anthropic IPO：Anthropic寻求纳斯达克上市，Amodei呼吁AI减速，引发市场分歧；Cramer质疑减速宣言；华盛顿加速AI监管立法
 
 ## 后续变量仍需确认
 
 只保留来源自身限制和当前证据中的风险项，不额外推演。
 
-- 大周期行业周报（9月第2周）：地缘冲突推升油价
-- 策略周报：等待海外不确定性落地，A股蓄势修复
+- 页面为CNBC全球频道导航页，含部分无明确日期的滚动条目（如UBS CEO、瑞典选举等），已排除未纳入topics
+- 来源类型为research，但页面实质为新闻聚合导航页，非深度研究报告，信号强度有限
+- 部分条目标注'36 min ago'与'2 Hours Ago'存在时间戳不一致，以页面最新时间为准
 
 ## 信息口径
 
@@ -47,5 +48,5 @@
 本文仅作公开信息整理与讨论，不构成任何投资建议。
 
 刊期：2026-09-14 晚刊  
-生成时间：2026-09-14T12:56:05+08:00  
-模型：`SenseNova` · 调用 3 次 · Token 5482
+生成时间：2026-09-14T13:29:58+08:00  
+模型：`SenseNova` · 调用 4 次 · Token 7992
